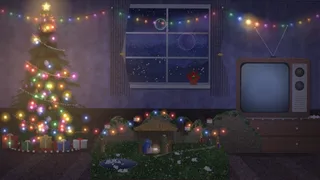
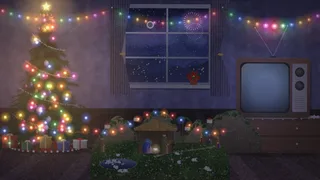
v157: Navidad sin tirón al empezar a grabar (la habitación se pinta por partes de verdad) y con el árbol más abajo para que el título del video no lo tape
Claude-Session: https://claude.ai/code/session_0196GyQFunpP2YdAEnvtnEqf

diff --git a/index.html b/index.html
@@ -795,7 +795,7 @@
         <div class="seg" role="group" aria-label="Color del estrobo"><button data-strobe="bw">Blanco y negro</button><button data-strobe="lime">Lima</button><button data-strobe="palette">Paleta</button></div>
       </div>
       <a class="tt-link" href="https://www.tiktok.com/@sientelamusicaco" target="_blank" rel="noopener"><span class="tt-dot"></span><span>Síguenos en TikTok <small>@sientelamusicaco · canciones que se ven</small></span><span aria-hidden="true">↗</span></a>
-      <div id="verNote" style="text-align:center;font-size:11px;opacity:.5;margin-top:8px">Versión 156</div>
+      <div id="verNote" style="text-align:center;font-size:11px;opacity:.5;margin-top:8px">Versión 157</div>
     </div>
   </div>
   <div class="group">
@@ -6171,7 +6171,7 @@ const navC = (c, a = 1) => `rgba(${c[0] | 0},${c[1] | 0},${c[2] | 0},${a})`;
 function navLayout(W, H) {
   const P = H >= W, u = (P ? W : H) / 1000;
   return P ? { P, u, wallB: H * 0.62, vp: [W * 0.5, H * 0.38], win: { x: W * 0.42, y: H * 0.1, w: W * 0.48, h: H * 0.26 },
-      tree: { cx: W * 0.24, top: H * 0.12, base: H * 0.69, hw: W * 0.22 }, tv: { x: W * 0.6, y: H * 0.405, w: W * 0.36, h: W * 0.3 },
+      tree: { cx: W * 0.24, top: H * 0.175, base: H * 0.69, hw: W * 0.22 }, tv: { x: W * 0.6, y: H * 0.405, w: W * 0.36, h: W * 0.3 },
       cab: { x: W * 0.565, w: W * 0.43, h: H * 0.1 }, peb: { x: W * 0.02, y: H * 0.64, w: W * 0.96, h: H * 0.34 } }
     : { P, u, wallB: H * 0.62, vp: [W * 0.5, H * 0.38], win: { x: W * 0.4, y: H * 0.08, w: W * 0.24, h: H * 0.38 },
       tree: { cx: W * 0.17, top: H * 0.06, base: H * 0.8, hw: H * 0.25 }, tv: { x: W * 0.72, y: H * 0.33, w: H * 0.38, h: H * 0.31 },
@@ -6517,7 +6517,9 @@ function drawNavidad(dt) {
   const key = [W, H, amb].join();
   if (N.key !== key) { const c = document.createElement('canvas'); c.width = W; c.height = H; const out = { bulbs: [] }, job = navPaint(c, W, H, amb, out);
     N.job = { c, out, job, key }; N.key = key; if (!N.bg) { while (!job.next().done); navDone(N); } }
-  if (N.job) { const t0 = performance.now(); let r; do { r = N.job.job.next(); } while (!r.done && performance.now() - t0 < 10); if (r.done) navDone(N); }   // se pinta por partes, sin trabar
+  if (N.job) { const t0 = performance.now(), jx = N.job.c.getContext('2d'); let r; do { r = N.job.job.next(); jx.getImageData(0, 0, 1, 1); } while (!r.done && performance.now() - t0 < 8); if (r.done) navDone(N); }
+  // se pinta por partes, sin trabar (y se obliga al navegador a pintar cada parte en su momento: si no, lo deja todo para el primer cuadro
+  // en que se usa la habitación nueva, y eso daba un tirón al empezar a grabar)
   const L = N.L, u = L.u;
   ctx.drawImage(N.bg, 0, 0, W, H);
   // la música: el ritmo de los bombillos (secuencias de las de antes: cambian cada 8 golpes)

diff --git a/sw.js b/sw.js
@@ -1,7 +1,7 @@
 // Permite instalar la página como app y abrirla sin conexión.
 // La página se pide primero a la red (así siempre llega la última versión) y, si no hay
 // conexión, se usa la copia guardada. Las imágenes se sirven desde la copia y se renuevan por detrás.
-const CACHE = 'siente-v156';
+const CACHE = 'siente-v157';
 const CORE = ['./', 'index.html', 'manifest.webmanifest', 'icons/icon.svg', 'icons/icon-192.png', 'icons/icon-512.png'];
 
 self.addEventListener('install', e => {
